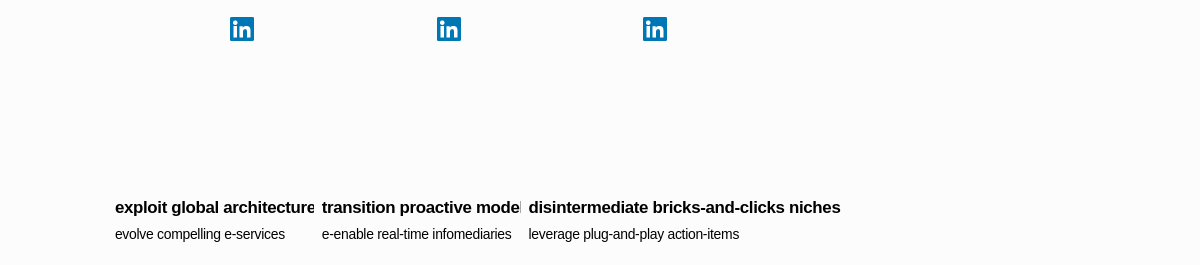
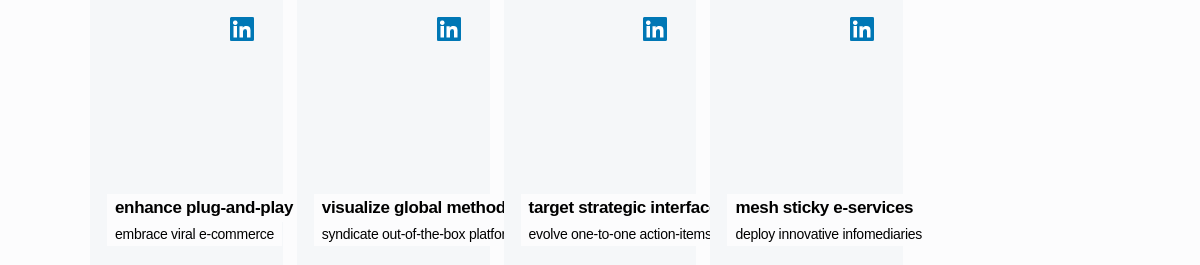
MAR-1791 added animation for Text & Paragraph & TeamCards slices

Changed region(s): [[0.0925, 0.7547, 0.7708, 0.8151], [0.0925, 0.8453, 0.7708, 0.9057], [0.7092, 0.0604, 0.74, 0.1509]]

diff --git a/.slicemachine/assets/client/prismicSlices/pageParts/TeamCards/index.stories.js b/.slicemachine/assets/client/prismicSlices/pageParts/TeamCards/index.stories.js
@@ -18,7 +18,7 @@ export const _DefaultSlice = () => ({
   },
   data() {
     return {
-      mock: {"variation":"default-slice","name":"Default slice","slice_type":"team_cards","items":[{"name":"exploit global architectures","position":"evolve compelling e-services","linkedin":{"link_type":"Web","url":"http://google.com"},"image":{"dimensions":{"width":900,"height":500},"alt":"Placeholder image","copyright":null,"url":"https://images.unsplash.com/photo-1593642633279-1796119d5482?w=900&h=500&fit=crop"}},{"name":"transition proactive models","position":"e-enable real-time infomediaries","linkedin":{"link_type":"Web","url":"http://google.com"},"image":{"dimensions":{"width":900,"height":500},"alt":"Placeholder image","copyright":null,"url":"https://images.unsplash.com/photo-1601933973783-43cf8a7d4c5f?w=900&h=500&fit=crop"}},{"name":"disintermediate bricks-and-clicks niches","position":"leverage plug-and-play action-items","linkedin":{"link_type":"Web","url":"http://twitter.com"},"image":{"dimensions":{"width":900,"height":500},"alt":"Placeholder image","copyright":null,"url":"https://images.unsplash.com/photo-1606248897732-2c5ffe759c04?w=900&h=500&fit=crop"}}],"primary":{},"id":"_DefaultSlice"}
+      mock: {"variation":"default-slice","name":"Default slice","slice_type":"team_cards","items":[{"name":"enhance plug-and-play markets","position":"embrace viral e-commerce","linkedin":{"link_type":"Web","url":"http://twitter.com"},"image":{"dimensions":{"width":900,"height":500},"alt":"Placeholder image","copyright":null,"url":"https://images.unsplash.com/photo-1515378791036-0648a3ef77b2?w=900&h=500&fit=crop"}},{"name":"visualize global methodologies","position":"syndicate out-of-the-box platforms","linkedin":{"link_type":"Web","url":"https://slicemachine.dev"},"image":{"dimensions":{"width":900,"height":500},"alt":"Placeholder image","copyright":null,"url":"https://images.unsplash.com/photo-1547082299-de196ea013d6?w=900&h=500&fit=crop"}},{"name":"target strategic interfaces","position":"evolve one-to-one action-items","linkedin":{"link_type":"Web","url":"http://twitter.com"},"image":{"dimensions":{"width":900,"height":500},"alt":"Placeholder image","copyright":null,"url":"https://images.unsplash.com/photo-1494173853739-c21f58b16055?w=900&h=500&fit=crop"}},{"name":"mesh sticky e-services","position":"deploy innovative infomediaries","linkedin":{"link_type":"Web","url":"http://google.com"},"image":{"dimensions":{"width":900,"height":500},"alt":"Placeholder image","copyright":null,"url":"https://images.unsplash.com/photo-1600804931749-2da4ce26c869?w=900&h=500&fit=crop"}}],"primary":{"animation":"fade-down"},"id":"_DefaultSlice"}
     }
   },
   template: '<SliceZone :slices="[mock]" :resolver="resolve" />'

diff --git a/.slicemachine/assets/client/prismicSlices/pageParts/TitleSlice/index.stories.js b/.slicemachine/assets/client/prismicSlices/pageParts/TitleSlice/index.stories.js
@@ -18,7 +18,7 @@ export const _DefaultSlice = () => ({
   },
   data() {
     return {
-      mock: {"variation":"default-slice","name":"Default slice","slice_type":"title_slice","items":[],"primary":{"colorTheme":"black","title":"integrate global partnerships","tag":"h3","maxWidth":"drive 24/7 supply-chains","size":"sm","position":"right"},"id":"_DefaultSlice"}
+      mock: {"variation":"default-slice","name":"Default slice","slice_type":"title_slice","items":[],"primary":{"colorTheme":"white","title":"integrate virtual applications","tag":"h3","maxWidth":"incentivize seamless bandwidth","size":"md","position":"center","animation":"fade-up"},"id":"_DefaultSlice"}
     }
   },
   template: '<SliceZone :slices="[mock]" :resolver="resolve" />'

diff --git a/.slicemachine/assets/client/prismicSlices/pageParts/ParagraphSlice/index.stories.js b/.slicemachine/assets/client/prismicSlices/pageParts/ParagraphSlice/index.stories.js
@@ -18,7 +18,7 @@ export const _DefaultSlice = () => ({
   },
   data() {
     return {
-      mock: {"variation":"default-slice","name":"Default slice","slice_type":"paragraph_slice","items":[],"primary":{"text":"optimize enterprise applications","colorTheme":"white","maxWidth":"morph strategic content","size":"xl","position":"center"},"id":"_DefaultSlice"}
+      mock: {"variation":"default-slice","name":"Default slice","slice_type":"paragraph_slice","items":[],"primary":{"text":"optimize enterprise applications","colorTheme":"white","maxWidth":"morph strategic content","size":"xl","position":"center","animation":"fade-up"},"id":"_DefaultSlice"}
     }
   },
   template: '<SliceZone :slices="[mock]" :resolver="resolve" />'

diff --git a/client/prismicSlices/pageParts/TeamCards/index.vue b/client/prismicSlices/pageParts/TeamCards/index.vue
@@ -4,7 +4,10 @@
     class="meet-our-experts"
   >
     <div class="container">
-      <div class="meet-our-experts__experts-list">
+      <div
+        class="meet-our-experts__experts-list"
+        :data-aos="slice.primary.animation"
+      >
         <div
           v-for="expert in slice.items"
           :key="expert.name"
@@ -47,9 +50,18 @@
 
 <script>
 import { experts } from '@/data/ourExperts'
+import animateOnScrollMixin from '@/mixins/animateOnScrollMixin'
 
 export default {
   name: 'MeetOurExperts',
+
+  mixins: [animateOnScrollMixin({
+    offset: 200,
+    delay: 50,
+    anchorPlacement: 'top-center',
+    duration: 1000,
+    once: true,
+  })],
 
   props: {
     slice: {

diff --git a/client/prismicSlices/pageParts/ParagraphSlice/index.vue b/client/prismicSlices/pageParts/ParagraphSlice/index.vue
@@ -9,6 +9,7 @@
     >
       <p
         :class="`paragraph-slice-text paragraph-slice-text--${slice.primary.size} paragraph-slice-text--${slice.primary.position}`"
+        :data-aos="slice.primary.animation"
         v-html="slice.primary.text"
       />
     </div>
@@ -16,8 +17,18 @@
 </template>
 
 <script>
+import animateOnScrollMixin from '@/mixins/animateOnScrollMixin'
+
 export default {
   name: 'ParagraphSlice',
+
+  mixins: [animateOnScrollMixin({
+    offset: 200,
+    delay: 50,
+    anchorPlacement: 'top-center',
+    duration: 1000,
+    once: true,
+  })],
 
   props: {
     slice: {

diff --git a/client/prismicSlices/pageParts/TitleSlice/index.vue b/client/prismicSlices/pageParts/TitleSlice/index.vue
@@ -10,6 +10,7 @@
       <component
         :is="slice.primary.tag"
         :class="`title-slice-text title-slice-text--${slice.primary.size} title-slice-text--${slice.primary.position}`"
+        :data-aos="slice.primary.animation"
         v-html="slice.primary.title"
       />
     </div>

diff --git a/client/prismicSlices/pageParts/CustomerTestimonials/index.vue b/client/prismicSlices/pageParts/CustomerTestimonials/index.vue
@@ -1,7 +1,7 @@
 <template>
   <CustomerTestimonials
     :title="slice.primary.title"
-    aos="fade-up"
+    data-aos="fade-up"
   />
 </template>
 
